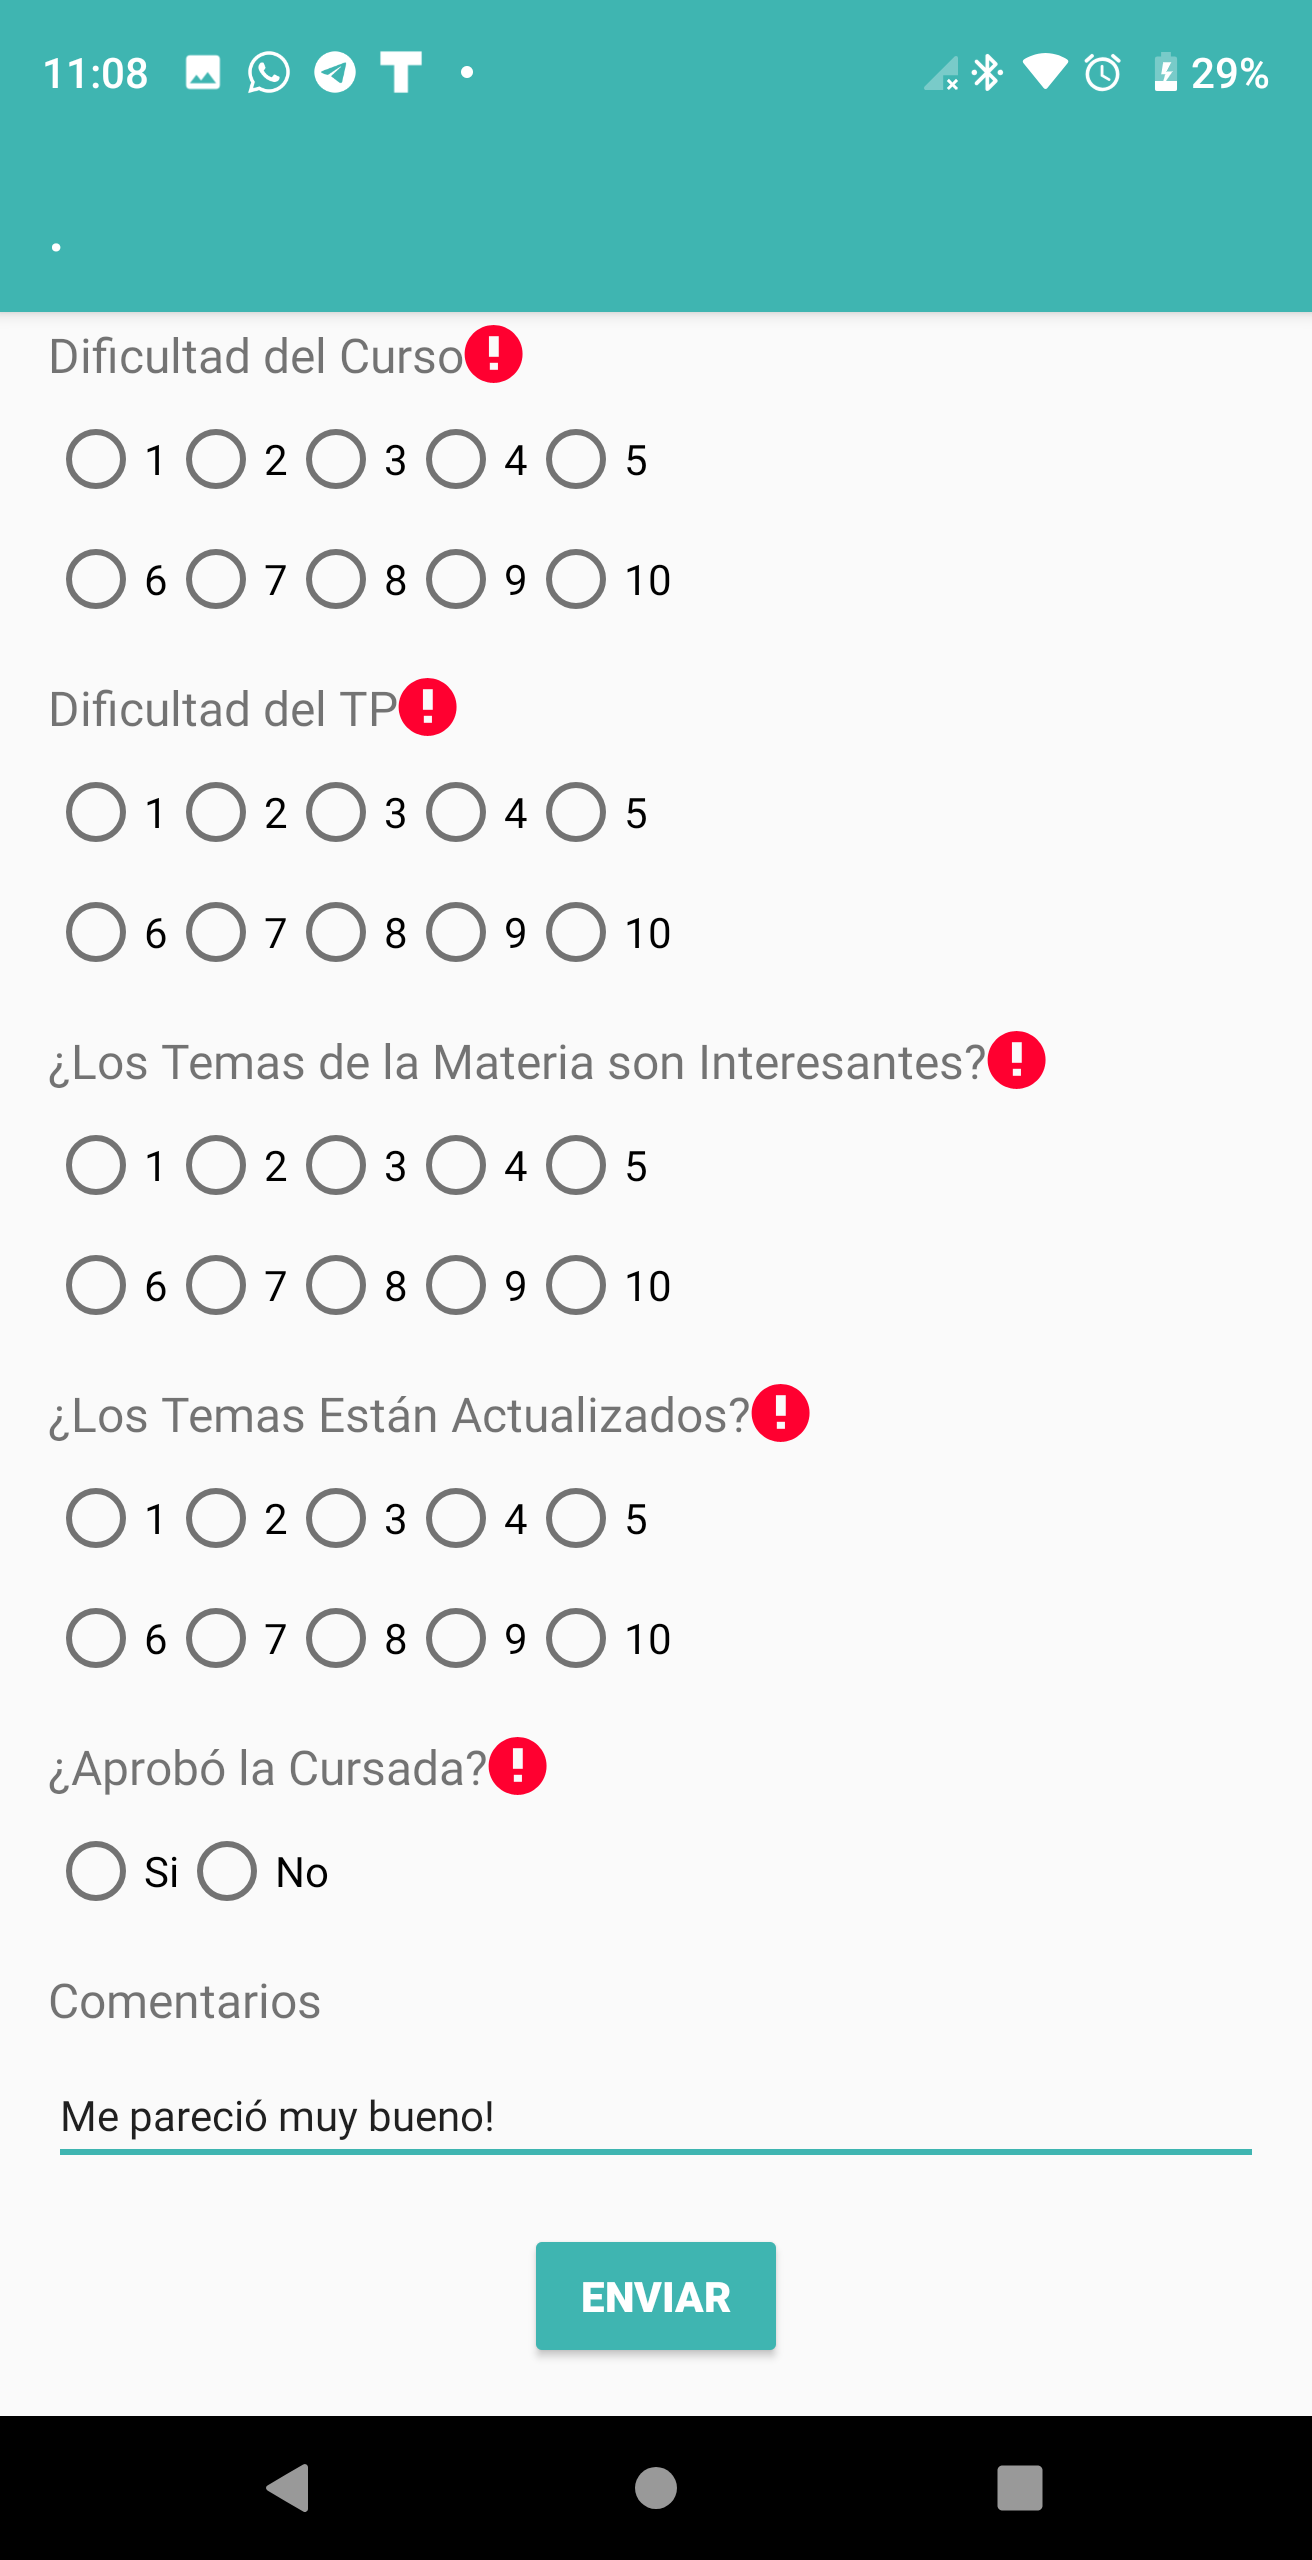
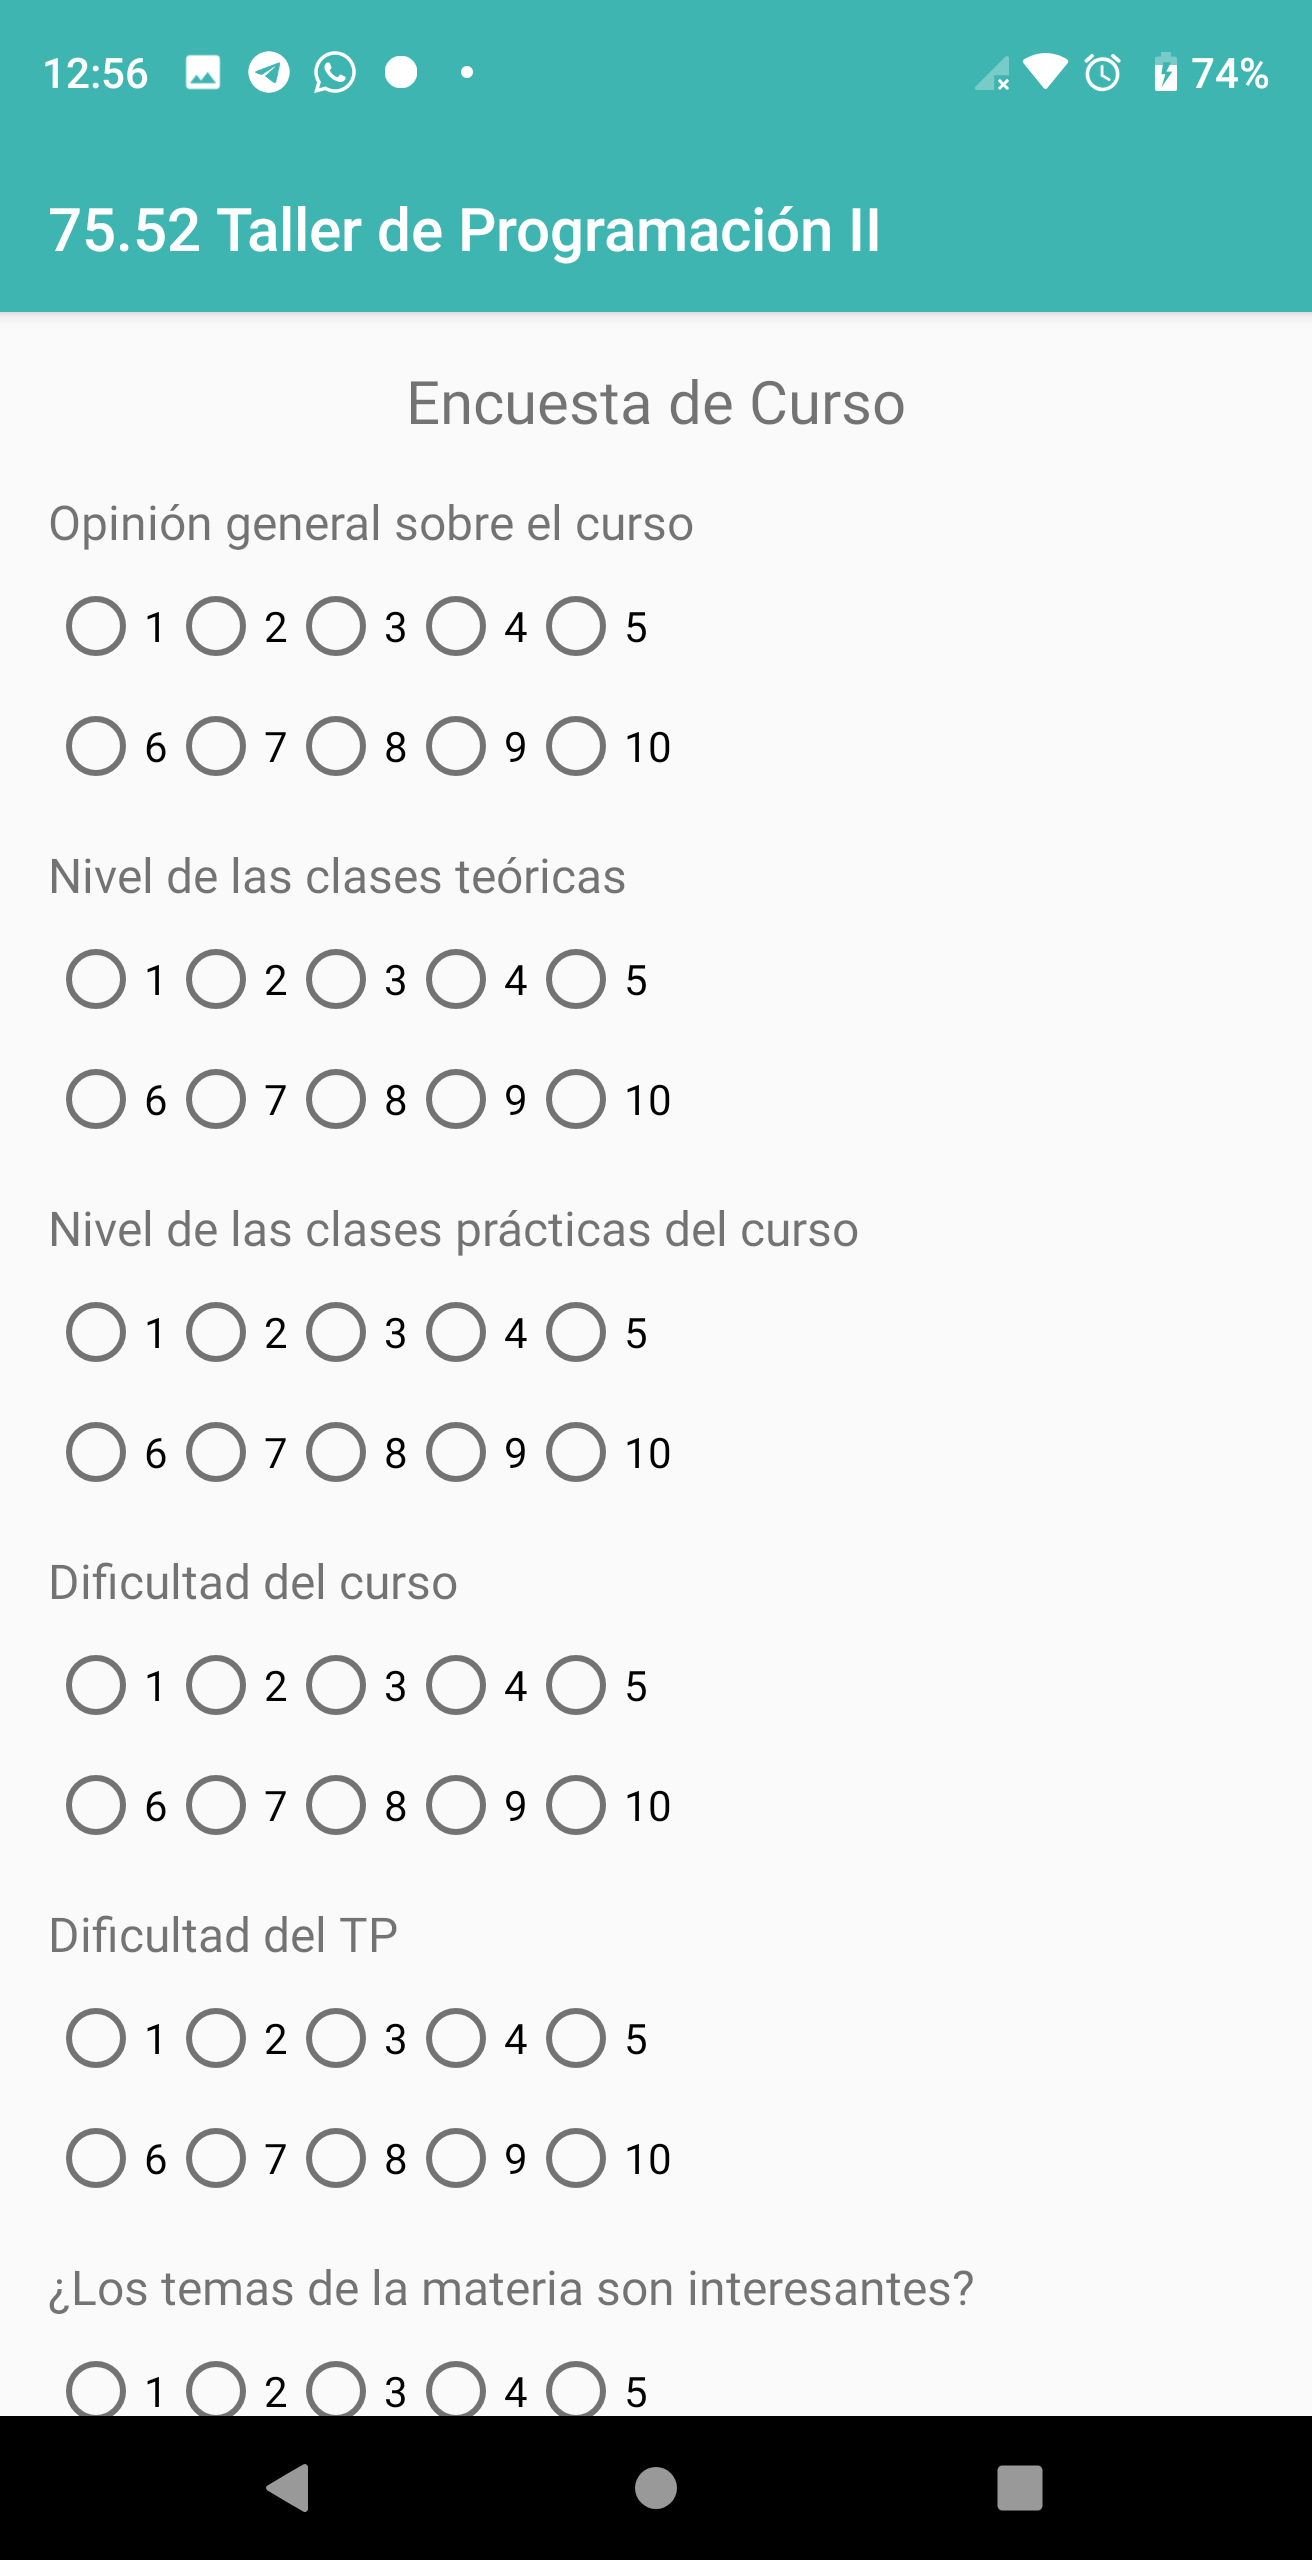
Updated survey prototipes

diff --git a/HU46-completar-encuestas.md b/HU46-completar-encuestas.md
@@ -20,6 +20,8 @@
 - Si no hay cursos en el listado, se le será indicado
 
 ## Prototipo
-![Menú lateral de navegación](./prototipos/pantalla_cursos_encuesta.png)
-![Menú lateral de navegación](./prototipos/pantalla_encuesta_1.png)
-![Menú lateral de navegación](./prototipos/pantalla_encuesta_2.png)
+![Pantalla que lista los cursos](./prototipos/pantalla_cursos_encuesta.png)
+![Encuesta sin haber presionado el botón "Enviar"](./prototipos/pantalla_encuesta_1.png)
+![Encuesta sin haber presionado el botón "Enviar"](./prototipos/pantalla_encuesta_2.png)
+![Encuesta habiendo presionado el botón "Enviar" pero incompleta](./prototipos/pantalla_encuesta_3.png)
+![Encuesta habiendo haber presionado el botón "Enviar" pero incompleta](./prototipos/pantalla_encuesta_4.png)
